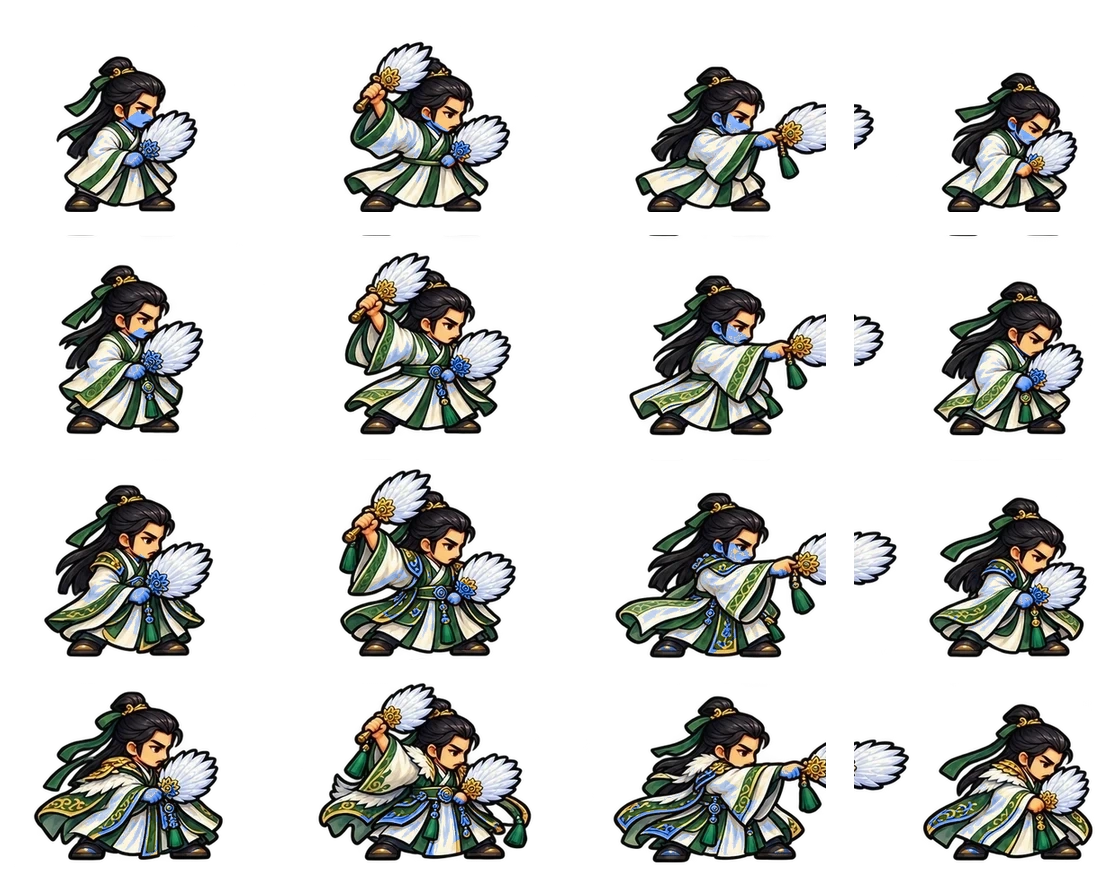
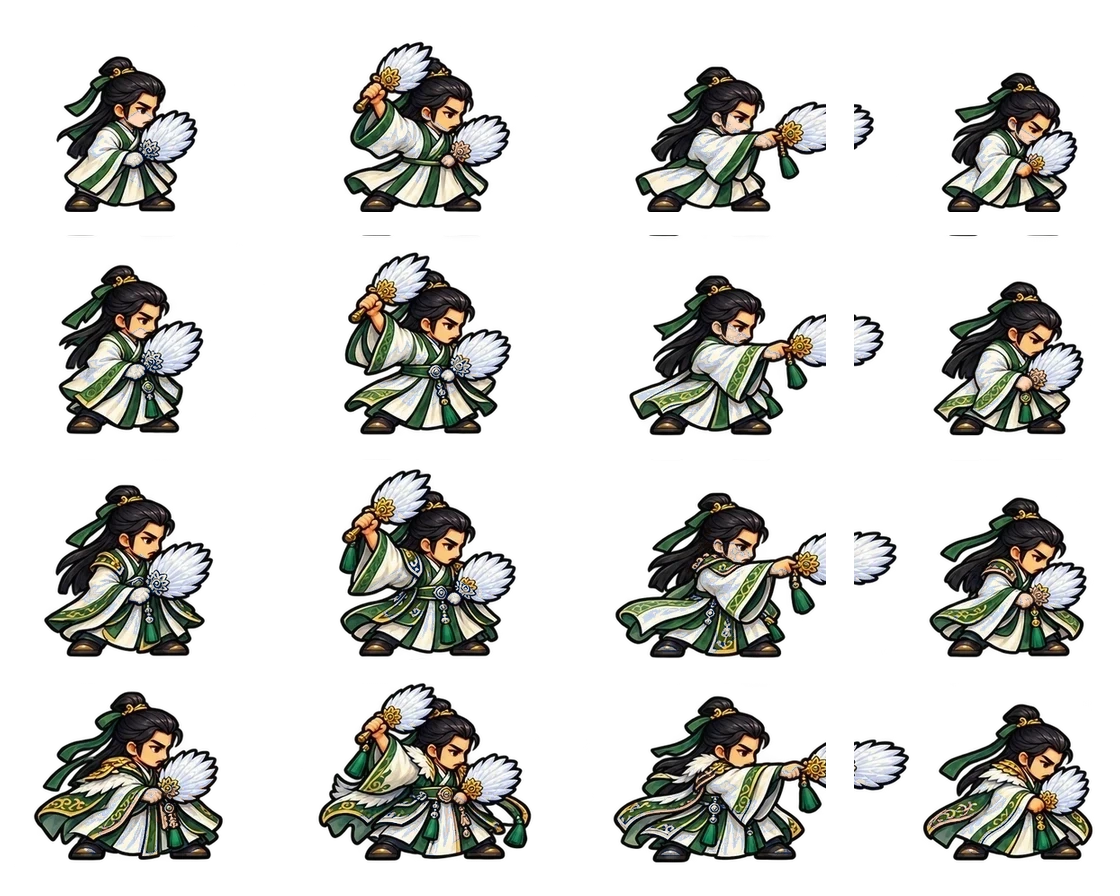
상편 앞 세 장(189·190년)은 소년 사마의 그림으로: 이야기·대화·초상·전투·일기토
- youth.ts: 장 id로 시대를 정하고 그림 조회(officerEntry·officerLook·officerPortrait)에서 사마의를 소년 사마의로 바꿔 보여 준다
- 행군 전투는 앞 장의 나이를 잇고, 본영으로 돌아오면 성인으로
- 소년 사마의 전투 그림의 얼굴·손 파란 칠을 살색·흰색으로 바로잡음

Claude-Session: https://claude.ai/code/session_01MpPPA45aaRsErGnvA66if3

diff --git a/packages/web/src/officer-art.ts b/packages/web/src/officer-art.ts
@@ -1,3 +1,4 @@
+import {artKey} from './youth.ts';
 import {displayName} from './courtesy.ts';
 import {portraitImage} from './portrait-images.ts';
 export const officerLooks=[
@@ -18,7 +19,7 @@ export const officerLooks=[
  {id:'sima_zhao',name:'사마소',title:'자상 · 사마의의 둘째 아들',slot:13},
 ] as const;
 const escape=(s:string)=>s.replace(/[&<>"']/g,c=>({'&':'&amp;','<':'&lt;','>':'&gt;','"':'&quot;',"'":'&#39;'}[c]!));
-export function officerLook(name:string){return officerLooks.find(p=>p.id===name||p.name===name);}
+export function officerLook(name:string){name=artKey(name);return officerLooks.find(p=>p.id===name||p.name===name);}
 /** Named speakers without a painted portrait show the upper body of their troop art
  * (rows of units-v3: 0 infantry, 1 spear, 2 bow, 3 horse, 4 robe, 5 siege). */
 const troopFaces:Record<string,number>={'양앙':0,'성채 수비대장':0,'교관':0,'노장':0,'학자':4,'의원':4,'상인':4,'장인':4,'꿈속의 황제':4,'장소':4,'제갈근':4,'손권':4,'여몽':3,'사마사':3,'사마소':2,'맹달':0,'이엄':4,'장합':3,'곽회':0,'제갈량':4,'마속':4,'왕평':0,'위연':0,'조상':3,'비연':3,'공손연':0,'주연':0,'제갈각':4,'강유':3,'맹염':3,'대릉':0,'고상':0,'공병':0};
@@ -38,6 +39,8 @@ export function registerFace(name:string,url:()=>string){customFaces.set(name,ur
 export function clearFaces(){customFaces.clear();}
 export function customFace(name:string){const img=portraitImage(name);if(img)return img;const f=customFaces.get(name);return f?f():undefined;}
 export function officerPortrait(name:string){
+  // 상편 앞 세 장: 사마의 초상 대신 소년 사마의 흉상의 첫 표정을 초상으로 쓴다(youth.ts).
+  const youth=artKey(name);if(youth!==name&&(youth==='소년 사마의'||youth==='sima_yi_young'))return `<div class="officer-face image-face" role="img" aria-label="소년 사마의 초상" style="background-image:url('officers/sima_yi_young-bust-v1.webp');background-size:300% 100%;background-position:0 12%"></div>`;
   // 원화 id(cao_zhen)로 불러도 넣은 초상(이름 「조진」으로 저장)을 먼저 찾는다.
   const img=portraitImage(name)??portraitImage(officerLook(name)?.name??'');if(img)return `<div class="officer-face image-face" role="img" aria-label="${escape(name)} 초상" style="background-image:url('${img}');background-size:cover;background-position:50% 12%"></div>`;
   const cf=customFaces.get(name);if(cf){const url=cf();if(url)return `<div class="officer-face custom-face" role="img" aria-label="${escape(name)} 초상" style="background-image:url(${url});background-size:cover;background-position:center"></div>`;}const p=officerLook(name),atlas=!!p&&p.slot<12,row=atlas?undefined:troopFaceRow(name);if(row!==undefined){

diff --git a/packages/web/src/youth.ts b/packages/web/src/youth.ts
@@ -1,0 +1,17 @@
+/**
+ * 상편 앞 세 장(S1-01 189년 · S1-02 190년 · S1-03 190년)의 사마의는 열 살 남짓이다.
+ * 그동안은 이야기·대화·전투·대결에서 사마의 그림을 「소년 사마의」 그림으로 바꿔 보여 준다.
+ * 이름·능력치·유닛은 그대로 사마의다 — 그림만 바뀐다.
+ */
+const YOUNG_STAGES=new Set(['S1-01','S1-02','S1-03']);
+let young=false;
+
+/** 연의 장에 들어갈 때 부른다. 연의 장이 아닌 전투(행군·외전)는 앞 장의 나이를 그대로 잇는다. */
+export function setStoryEra(stageId:string|undefined){if(stageId&&/^S\d-\d+$/.test(stageId))young=YOUNG_STAGES.has(stageId);}
+/** 본영으로 돌아가면 성인 사마의로 돌아온다. */
+export function resetStoryEra(){young=false;}
+export const youngSimaYi=()=>young;
+
+const ADULT_KEYS:Record<string,string>={sima_yi:'sima_yi_young','사마의':'소년 사마의','사마의 중달':'소년 사마의','중달':'소년 사마의'};
+/** 그림을 찾을 때 쓰는 열쇠(id·이름). 소년 시절 장이면 사마의를 소년 사마의로 바꾼다. */
+export function artKey(key:string){return young?ADULT_KEYS[key]??key:key;}

diff --git a/packages/web/src/scenario-ui.ts b/packages/web/src/scenario-ui.ts
@@ -32,6 +32,7 @@ import {showResearch} from './research-ui.ts';
 import {classTactics,evolvedClass,tierOf,familyOf,type BattleState,type UnitClass} from '../../core/src/index.ts';
 import type {ChapterScript,ChoiceEffect,Look,Scene,Camp} from './scenario-types.ts';
 import {과와,으로,은는,을를,이가} from './josa.ts';
+import {setStoryEra} from './youth.ts';
 
 export interface ScenarioHost {
   modal(html:string,closable?:boolean):void;
@@ -187,6 +188,7 @@ function enemyBase(state:ScenarioState,heroLevel:number,step:ScenarioStep){
 // ─────────────────────────────────────────────── 이야기 → 정비 → 전투
 
 async function stage(host:ScenarioHost,state:ScenarioState,step:ScenarioStep,scenes:Scene[],heading:string,choosing:boolean,narration?:{year:string;title:string;lines:readonly string[]}){
+  setStoryEra(step.stage??step.id);
   host.modal('<div class="ss-host"></div>',false);
   const root=document.querySelector<HTMLElement>('.ss-host')!;
   // 장을 여는 해설(역사·시나리오 배경)

diff --git a/packages/web/src/officer-models.ts b/packages/web/src/officer-models.ts
@@ -1,3 +1,4 @@
+import {artKey} from './youth.ts';
 import {familyOf,tierOf,type Unit} from '../../core/src/index.ts';
 import {romanceOf} from './romance.ts';
 
@@ -67,7 +68,8 @@ const byKey=new Map<string,OfficerEntry>();
 for(const e of officerManifest)for(const k of [e.id,e.name,...e.aliases])byKey.set(k,e);
 
 export function officerEntry(u:OfficerLike):OfficerEntry|undefined{
-  const direct=byKey.get(u.id)??byKey.get(u.name)??byKey.get(plain(u.name));if(direct)return direct;
+  // 상편 앞 세 장에서는 사마의 그림을 소년 사마의 그림으로(youth.ts).
+  const direct=byKey.get(artKey(u.id))??byKey.get(artKey(u.name))??byKey.get(artKey(plain(u.name)));if(direct)return direct;
   const r=romanceOf(u);return r?byKey.get(r.name):undefined;
 }
 const classKey=(u:OfficerLike,e:OfficerEntry)=>{if(u.id==='wooden_zhuge'&&e.battle.cart)return 'cart';const cls=u.unitClass;if(cls&&e.battle[cls])return cls;if(cls){const family=familyOf(cls);if(family==='lord'&&e.battle.lord)return 'lord';if(e.battle[family])return family;}return e.battle.lord?'lord':Object.keys(e.battle)[0]!;};

diff --git a/packages/web/test/qa-sweep-fixes.test.ts b/packages/web/test/qa-sweep-fixes.test.ts
@@ -50,3 +50,19 @@ describe('전수 점검 수정',()=>{
   expect(chapters.find(c=>c.stage.id==='S1-01')!.year).toContain('189');
  });
 });
+
+describe('상편 앞 세 장은 소년 사마의 그림',()=>{
+ it('S1-01~S1-03과 그 사이 행군 전투는 소년, S1-04부터와 본영은 성인',async()=>{
+  const {setStoryEra,resetStoryEra}=await import('../src/youth.ts');
+  const {officerEntry}=await import('../src/officer-models.ts');
+  const {officerLook}=await import('../src/officer-art.ts');
+  const who=()=>officerEntry({id:'sima_yi',name:'사마의'})?.id;
+  resetStoryEra();expect(who()).toBe('sima_yi');
+  setStoryEra('S1-01');expect(who()).toBe('sima_yi_young');expect(officerLook('사마의')?.id).toBe('sima_yi_young');
+  setStoryEra('R-02');expect(who()).toBe('sima_yi_young');
+  setStoryEra('S1-03');expect(who()).toBe('sima_yi_young');
+  expect(officerEntry({id:'sima_lang',name:'사마랑'})?.id).toBe('sima_lang');
+  setStoryEra('S1-04');expect(who()).toBe('sima_yi');
+  setStoryEra('S1-02');resetStoryEra();expect(who()).toBe('sima_yi');
+ });
+});

diff --git a/docs/tech/지속개발-현황.md b/docs/tech/지속개발-현황.md
@@ -1645,3 +1645,5 @@ npm run dev → http://127.0.0.1:5173. Windows 대괄호 경로는 PowerShell -L
 ## 디자인 재점검(2026-10-09 밤)
 - 일기토 그림 54명 전원을 같은 무대에 세워 재측정: 항우(Codex가 다시 그린 그림)와 소년 사마의(아래 칸 번짐 때문에 발끝을 잘못 잼)의 맞춤 값을 고쳐, 전원 키 103–128(중앙 112)·발끝 같은 줄. 항우는 말 탄 대결 모델로 표시.
 - 본영 메뉴(병종 진화표·연구·인물열전): 1366×768 같은 큰 화면에서 "← 본영" 줄이 창 아래에 붙어 늘 보이게. 창 안의 한국어는 낱말 단위로 줄바꿈.
+- 상편 앞 세 장(S1-01 189년 · S1-02 · S1-03 190년)은 사마의를 소년 사마의 그림으로 보여 준다(youth.ts). 이야기·대화 흉상·초상·전투 지도·일기토 모두 같은 규칙이고, 그 사이 행군 전투도 소년으로 잇는다. S1-04부터, 본영에 돌아오면 성인 그림. 이름·능력치·유닛은 그대로 사마의.
+- 소년 사마의 전투 그림의 얼굴·손이 파랗게 칠해져 있던 것을 살색·흰색으로 바로잡음(원본 그림 수정).
